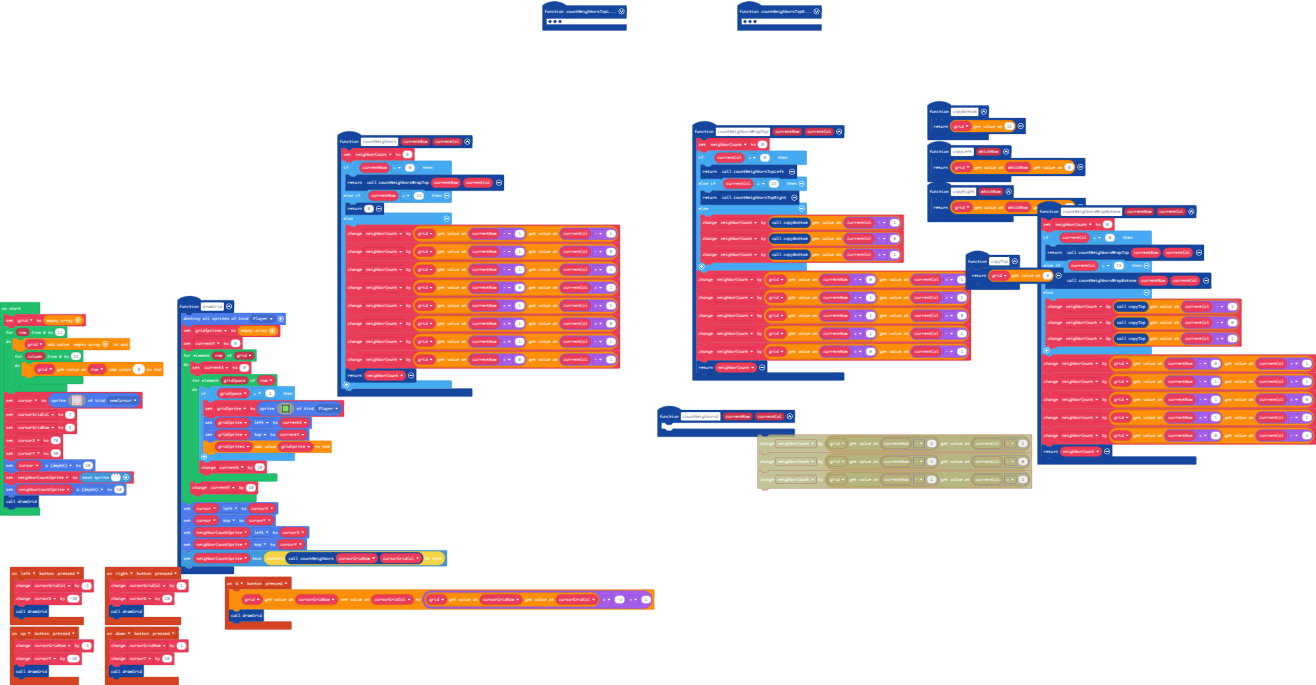
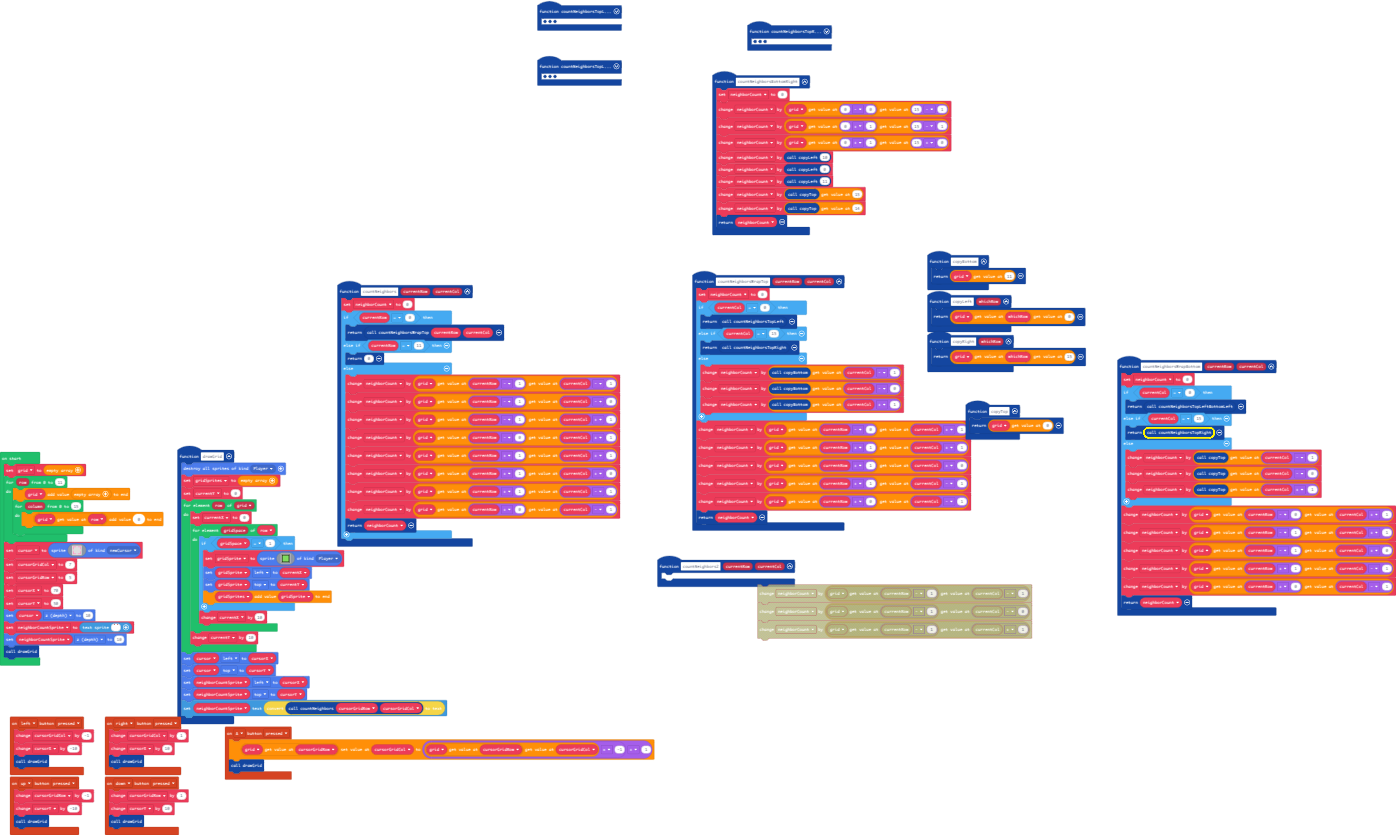
wrap bottom left and right

diff --git a/main.ts b/main.ts
@@ -2,6 +2,18 @@ namespace SpriteKind {
     export const cursor = SpriteKind.create()
     export const newCursor = SpriteKind.create()
 }
+function countNeighborsTopLeftBottomLeft () {
+    neighborCount = 0
+    neighborCount += grid[11 - 0][0 + 1]
+    neighborCount += grid[11 - 1][0 + 0]
+    neighborCount += grid[11 - 1][0 + 1]
+    neighborCount += copyRight(10)
+    neighborCount += copyRight(0)
+    neighborCount += copyRight(11)
+    neighborCount += copyTop()[15]
+    neighborCount += copyTop()[14]
+    return neighborCount
+}
 controller.up.onEvent(ControllerButtonEvent.Pressed, function () {
     cursorGridRow += -1
     cursorY += -10
@@ -94,6 +106,18 @@ function countNeighborsTopLeft () {
     neighborCount += copyBottom()[14]
     return neighborCount
 }
+function countNeighborsBottomRight () {
+    neighborCount = 0
+    neighborCount += grid[0 - 0][15 - 1]
+    neighborCount += grid[0 + 1][15 - 1]
+    neighborCount += grid[0 + 1][15 + 0]
+    neighborCount += copyLeft(10)
+    neighborCount += copyLeft(0)
+    neighborCount += copyLeft(11)
+    neighborCount += copyTop()[15]
+    neighborCount += copyTop()[14]
+    return neighborCount
+}
 function countNeighbors (currentRow: number, currentCol: number) {
     neighborCount = 0
     if (currentRow == 0) {
@@ -131,12 +155,12 @@ function countNeighborsTopRight () {
 function copyLeft (whichRow: number) {
     return grid[whichRow][0]
 }
-function countNeighborsWrapBottom (currentRow: number, currentCol: number): any {
+function countNeighborsWrapBottom (currentRow: number, currentCol: number) {
     neighborCount = 0
     if (currentCol == 0) {
-        return countNeighborsWrapTop(currentRow, currentCol)
+        return countNeighborsTopLeftBottomLeft()
     } else if (currentCol == 15) {
-        return countNeighborsWrapBottom(currentRow, currentCol)
+        return countNeighborsTopRight()
     } else {
         neighborCount += copyTop()[currentCol - 1]
         neighborCount += copyTop()[currentCol - 0]
@@ -152,11 +176,11 @@ function countNeighborsWrapBottom (currentRow: number, currentCol: number): any 
 function copyTop () {
     return grid[0]
 }
-let neighborCount = 0
 let gridSprite: Sprite = null
 let currentX = 0
 let currentY = 0
 let gridSprites: Sprite[] = []
+let neighborCount = 0
 let neighborCountSprite: TextSprite = null
 let cursorY = 0
 let cursorX = 0
